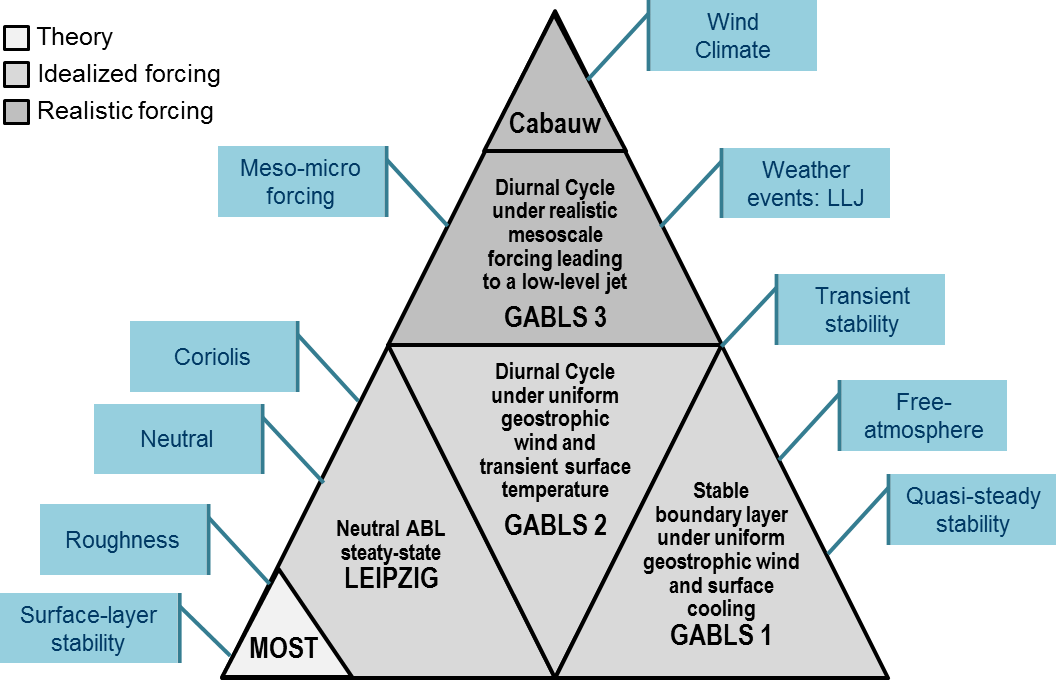
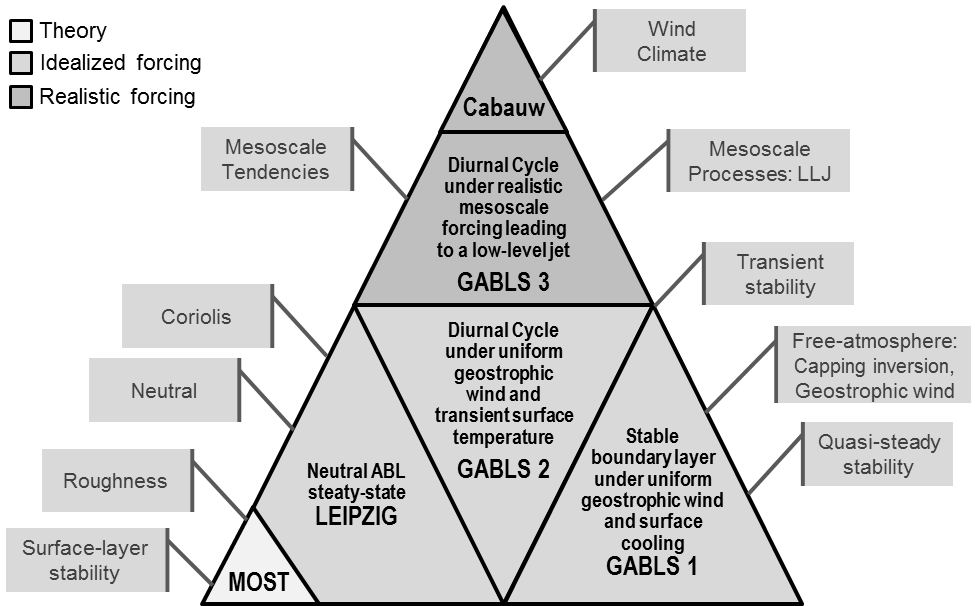
Table changed into grid format

diff --git a/windconditions/windconditions.rst b/windconditions/windconditions.rst
@@ -105,7 +105,7 @@ Sanz Rodrigo et al. (2016) :cite:`rodrigo_mesoscale_2017` provide a review of me
     :width: 600
     :align: center
 
-    Model-chain for wind farm flow modeling. © 2016 John Wiley & Sons, Ltd. Used with permission (`Sanz Rodrigo et al., 2016 <https://onlinelibrary.wiley.com/doi/pdf/10.1002/wene.214>`_) :cite:`rodrigo_mesoscale_2017`.
+    Model-chain for wind farm flow modeling. `© 2016 John Wiley & Sons, Ltd <https://onlinelibrary.wiley.com/doi/pdf/10.1002/wene.214>`_. Used with permission. :cite:`rodrigo_mesoscale_2017`
 
 Models can be coupled together to form a multi-scale modeling system where, for instance, the microscale sub-system (the wind farm) uses input data generated by the mesoscale sub-system to characterize the long-term wind climate distribution that modulates the local wind conditions. Similarly, an aerolastic model of the turbine sub-system can be used to predict detailed rotor aerodynamics responsible for wake generation in the wind farm wake model. A mind map elaborated during IEA-Task 31 Phase 3 shows the relationships between model building-blocks at different scales, input quantities and phenomena of interest for the intended use of these models (:numref:`fig-windconditions-mindmap`). 
 
@@ -138,32 +138,131 @@ This validation strategy was implemented in the New European Wind Atlas (NEWA) p
     :width: 600
     :align: center
 
-    Distributions of mean gross power bias, using the NREL 5MW reference turbine power curve, for the various stages of the NEWA model chain grouped by ruggedness index (RIX) category: low (a), medium (b), high (c), and all of the samples combined (d). © Author(s) 2020. CC BY 4.0 License. Used with permission (`Dörenkämper et al., 2020 <https://gmd.copernicus.org/preprints/gmd-2020-23/>`_).  
+    Distributions of mean gross power bias, using the NREL 5MW reference turbine power curve, for the various stages of the NEWA model chain grouped by ruggedness index (RIX) category: low (a), medium (b), high (c), and all of the samples combined (d). `© Author(s) 2020. CC BY 4.0 License <https://gmd.copernicus.org/preprints/gmd-2020-23/>`_. Used with permission. :cite:`dorenkamper_making_2020`  
 
-* **Site assessment**: here the main focus was on the microscale model, in particular, in the implementation of mesoscale forcing and boundary conditions for heterogeneous topography (complex terrain and forest canopies) using both both Reynolds-Averaged Navier Stokes (RANS) and Large-Eddy Simulation (LES) turbulence models. Hence, the validation strategy seeked validation cases from detailed experiments where these modeling feutures would be tested in the prediction of mean flow and turbulence quantities. The range of experiments carried out in the NEWA allows testing over a wide range of siting conditions from offshore to coastal transitions to smooth and complex terrain with a without forest canopies. Next section provides an overview of these experiments and other open-access datasets that can be used to validate flow models.         
+* **Site assessment**: here the main focus was on the microscale model, in particular, in the implementation of mesoscale forcing and boundary conditions for heterogeneous topography (complex terrain and forest canopies) using both Reynolds-Averaged Navier Stokes (RANS) and Large-Eddy Simulation (LES) turbulence models. Hence, the validation strategy seeked validation cases from detailed experiments where these modeling feutures would be tested in the prediction of mean flow and turbulence quantities. The range of experiments carried out in the NEWA allows testing over a wide range of siting conditions from offshore to coastal transitions to smooth and complex terrain with a without forest canopies. Next section provides an overview of these experiments and other open-access datasets that can be used to validate flow models.         
 
 Experiments and other observational datasets  
 --------------------------------------------
-In addition to tall towers for boundary-layer measurements of at least one year duration, NEWA experiments made extensive use of remote sensing and, in particular, scanning lidar systems to obtain unprecedented measurements of the flow field during intensive campaigns of several months :cite:`mann_complex_2017`. A summary of NEWA experiments and other sources of open-access validation data are provided in :numref:`tab-windconditions-datasets`. 
+The building-block validation hierarchy of :numref:`fig-windconditions-building-blocks` provides a framework to map validation datasets with phenomena of interest at different scales and show how they complement each other to cover a reasonably wide range of wind conditions. Site effects are modulated by the regional wind climate which is driven by synoptic weather and local mesoscale processes.    
 
-.. _tab-windconditions-datasets:
-.. csv-table:: Summary of open-access datasets for the validation of flow models for wind conditions (adapted from :cite:`rodrigo_new_2020`, CC BY 3.0 License)
-   :file: windconditions_datasets.csv
-   :widths: 5,5,5,5,30,5
-   :header-rows: 1
-   :class: longtable
-
-.. note::
-   Add open-access datasets from other projects when they have been used for flow model validation (provide references) and the data 
-
-:numref:`fig-NEWA-building-blocks` shows how the experiments complement existing campaigns and each other to cover a wide range of wind conditions, from homogeneous conditions onshore (e.g. Cabauw), to offshore (e.g. Fino1) and coastal (Ferry Lidar, RUNE), to forested landscapes (Ryningsnäs, Balconies, Hornamossen), to flow over hills (Askervein, Bolund, Rödeser Berg), to steep (Perdigão) and mountainous terrain (Alaiz) [6]. 
-
-.. _fig-NEWA-building-blocks:
-.. figure:: figures/NEWA-building-blocks.png
+.. _fig-windconditions-building-blocks:
+.. figure:: figures/windconditions-building-blocks.png
     :width: 600
     :align: center
 
-    NEWA validation building-blocks and phenomena of interest for wind conditions (Sanz Rodrigo et al., 2019).
+    Building-block validation hierarchy and phenomena of interest for wind conditions.
+
+While long-term statistics of wind conditions are traditionally characterized with meteorological masts, many recent experiments include an intense operational period (IOP) of several weeks to months with extensive use of remote sensing equipment. In particular, scanning lidar systems allow to characterize the spatio-temporal structure of the flow field along  scanning trajectories following a particular transect, or slicing vertical or horizontal planes (:cite:`mann_complex_2017`). A summary of NEWA experiments and other sources of open-access validation data are provided in :numref:`tab-windconditions-datasets`. 
+
+.. _tab-windconditions-datasets:
+.. table:: Summary of open-access datasets for the validation of flow models for wind conditions
+   :class: longtable
+
+   +--------------------+-------------+----------------------+-------------------------+-----------------------------------------------------------------+
+   | Dataset            | Location    | Period               | Site Conditions         | References                                                      |
+   +====================+=============+======================+=========================+=================================================================+
+   | **Homogeneous ABL**                                                                                                                                 |
+   +--------------------+-------------+----------------------+-------------------------+-----------------------------------------------------------------+
+   | *Cabauw/ GABLS3*   | Netherlands | Since 2008           | Onshore flat terrain    | :cite:`cesar_2020`, :cite:`bosveld_third_2014`,                 | 
+   |                    |             |                      |                         | :cite:`rodrigo_results_2017`,                                   |
+   |                    |             |                      |                         | :cite:`rodrigo_windbenchgabls3_2020`,                           |
+   |                    |             |                      |                         | :cite:`rodrigo_comparing_2018`,                                 |
+   |                    |             |                      |                         | :cite:`rodrigo_windbenchnewamesomicrochallengephase1_2018`      |
+   +                    +-------------+----------------------+-------------------------+-----------------------------------------------------------------+
+   |                    | 200-m tall mast for atmospheric boundary-layer research in horizontally homogeneous conditions. GABLS3 is a diurnal            |
+   |                    | cycle developing a strong nocturnal low-level jet                                                                              | 
+   +--------------------+-------------+----------------------+-------------------------+-----------------------------------------------------------------+
+   | **Coastal and Offshore**                                                                                                                            |
+   +--------------------+-------------+----------------------+-------------------------+-----------------------------------------------------------------+
+   | *Satellite SAR*    | Global      | Since 2002           | Offshore                | :cite:`hasager_europes_2020`, :cite:`dtu_satellite_2020`        |
+   +                    +-------------+----------------------+-------------------------+-----------------------------------------------------------------+
+   |                    | Satellite SAR wind data archive from 2002                                                                                      |
+   +--------------------+-------------+----------------------+-------------------------+-----------------------------------------------------------------+
+   | *NEWA-RUNE*        | Denmark     | 2015-11 to 2016-02   | Near-shore              |  :cite:`floors_rune_2016`                                       |
+   +                    +-------------+----------------------+-------------------------+-----------------------------------------------------------------+
+   |                    | Near-shore wind resource from 8 lidars, one ocean buoy and satelite data                                                       |
+   +--------------------+-------------+----------------------+-------------------------+-----------------------------------------------------------------+
+   | *NEWA-Ferry Lidar* | Baltic Sea  | 2017-02 to 2017-06   | Offshore                | :cite:`gottschall_newa_2018`, :cite:`sanz_rodrigo_report_2019`  |
+   +                    +-------------+----------------------+-------------------------+-----------------------------------------------------------------+
+   |                    | Offshore wind resource from a ferry-mounted profiling lidar along the South Baltic Sea from Kiel (Germany) to                  |
+   |                    | Klaipeda (Lithuania)                                                                                                           |
+   +--------------------+-------------+----------------------+-------------------------+-----------------------------------------------------------------+
+   | **Roughness Changes and Canopies**                                                                                                                  |
+   +--------------------+-------------+----------------------+-------------------------+-----------------------------------------------------------------+
+   | *Ryningsnäs*       | Sweden      | 2011-10 to 2012-06   | Forested simple terrain | :cite:`arnqvist_wind_2015`, :cite:`arnqvist_investigation_2019`,|
+   |                    |             |                      |                         | :cite:`avila_daily_2019`, :cite:`ivanell_micro-scale_2018`,     |
+   |                    |             |                      |                         | :cite:`sanz_rodrigo_report_2017`                                |
+   +                    +-------------+----------------------+-------------------------+-----------------------------------------------------------------+
+   |                    | 200-m tall mast in a patchy forested site in simple terrain conditions                                                         |
+   +--------------------+-------------+----------------------+-------------------------+-----------------------------------------------------------------+
+   | *NEWA-Østerild*    | Denmark     | 2016-04 to 2016-08   | Forested flat terrain   |  :cite:`karagali_new_2018`                                      |
+   | *Balconies*        |             |                      |                         |                                                                 |
+   +                    +-------------+----------------------+-------------------------+-----------------------------------------------------------------+
+   |                    | Two horizontally scanning Doppler lidars, mounted on 250-m high masts and measuring at 50 and 200 m the flow above patchy      |
+   |                    | forest                                                                                                                         |
+   +--------------------+-------------+----------------------+-------------------------+-----------------------------------------------------------------+
+   | **Isolated Hill**                                                                                                                                   |
+   +--------------------+-------------+----------------------+-------------------------+-----------------------------------------------------------------+
+   | *Askervein*        | Scotland    | 1982-1983            | Smooth hill             | :cite:`taylor_askervein_1987`,                                  |
+   |                    |             |                      |                         | :cite:`walmsley_boundary-layer_1996`,                           |
+   |                    |             |                      |                         | :cite:`mickle_askervein_1988`, :cite:`kim_test_2000`,           |
+   |                    |             |                      |                         | :cite:`castro_simulation_2003`,                                 |
+   |                    |             |                      |                         | :cite:`silva_lopes_simulation_2007`,                            |
+   |                    |             |                      |                         | :cite:`undheim_non-linear_2006`,                                |
+   |                    |             |                      |                         | :cite:`bechmann_large-eddy_2007`, :cite:`beljaars_mixed_1987`,  |
+   |                    |             |                      |                         | :cite:`raithby_askervein_1987`, :cite:`salmon_askervein_1988`,  |
+   |                    |             |                      |                         | :cite:`xu_non-linear_1992`, :cite:`bechmann_hybrid_2010`,       |
+   |                    |             |                      |                         | :cite:`chow_evaluation_2009`, :cite:`conan_experimental_2016`   |
+   |                    |             |                      |                         | :cite:`rodrigo_results_2017`,                                   |
+   |                    |             |                      |                         | :cite:`rodrigo_windbenchgabls3_2020`,                           |
+   |                    |             |                      |                         | :cite:`rodrigo_comparing_2018`,                                 |
+   |                    |             |                      |                         | :cite:`rodrigo_windbenchnewamesomicrochallengephase1_2018`      |
+   +                    +-------------+----------------------+-------------------------+-----------------------------------------------------------------+
+   |                    | 116 m high smooth hill isolated in all wind directions but the NE-E sector. Over 50 masts installed, 35 of them of 10 m        |
+   |                    | height installed along transects following the main axes of the hill                                                           |
+   +--------------------+-------------+----------------------+-------------------------+-----------------------------------------------------------------+
+   | *NEWA-Rödeser*     | Germany     | 2016-10 to 2017-01   | Forested hill           | :cite:`dorenkamper_large-eddy_2019`,                            |
+   | *Berg (Kassel)*    |             |                      |                         | :cite:`sanz_rodrigo_report_2018`,                               |
+   |                    |             |                      |                         | :cite:`sanz_rodrigo_report_2019`                                |
+   +                    +-------------+----------------------+-------------------------+-----------------------------------------------------------------+
+   |                    | 200-m tall forested hill equipped with a 200-m mast at the hill top, a 140-m mast at the inflow and scanning Doppler lidars    |
+   |                    | mapping a transect along the prevailing wind direction                                                                         |
+   +--------------------+-------------+----------------------+-------------------------+-----------------------------------------------------------------+
+   | **Undulating Terrain**                                                                                                                              |
+   +--------------------+-------------+----------------------+-------------------------+-----------------------------------------------------------------+
+   | *NEWA-Hornamossen* | Sweden      | 2015-06 to 2017-07   | Forested rolling hills  | :cite:`sanz_rodrigo_report_2019`, :cite:`mann_complex_2017`     |
+   +                    +-------------+----------------------+-------------------------+-----------------------------------------------------------------+
+   |                    | 10-km long transect consisting of 9 remote sensing profilers and one 180-m flux-profile mast in forested and moderately        |
+   |                    | complex terrain. Surface pressure gradient measurements                                                                        |
+   +--------------------+-------------+----------------------+-------------------------+-----------------------------------------------------------------+
+   | **Steep Ridges**                                                                                                                                    |
+   +--------------------+-------------+----------------------+-------------------------+-----------------------------------------------------------------+
+   | *Bolund*           | Denmark     | 2007-2008            | Small isolated ridge    | :cite:`bechmann_bolund_2009`, :cite:`berg_bolund_2011`,         |
+   |                    |             |                      |                         | :cite:`bechmann_bolund_2011`,                                   |
+   |                    |             |                      |                         | :cite:`prospathopoulos_application_2012`,                       |
+   |                    |             |                      |                         | :cite:`diebold_flow_2013`, :cite:`yeow_reproducing_2015`        |
+   +                    +-------------+----------------------+-------------------------+-----------------------------------------------------------------+
+   |                    | 12-m high hill surrounded by water in all directions except to the E. An almost vertical escarpment faces the prevailing W-SW  |
+   |                    | sector. 10 masts equiped with sonic and cap anemometers.                                                                       |
+   +--------------------+-------------+----------------------+-------------------------+-----------------------------------------------------------------+
+   | *NEWA-Perdigão*    | Portugal    | 2016-12 to 2017-06   | Double ridge            | :cite:`fernando_perdigao_2019`, :cite:`ncar_perdigao_2020`,     |
+   |                    |             |                      |                         | :cite:`feup_perdigao_2020`                                      |
+   +                    +-------------+----------------------+-------------------------+-----------------------------------------------------------------+
+   |                    | 50 masts, 20 scanning lidars, 7 profiling lidars and other meteorological equipment distributed along and across two parallel  |
+   |                    | steep ridges.                                                                                                                  |
+   +--------------------+-------------+----------------------+-------------------------+-----------------------------------------------------------------+
+   | **Mountaineous complex terrain**                                                                                                                    |
+   +--------------------+-------------+----------------------+-------------------------+-----------------------------------------------------------------+
+   | *NEWA-Alaiz*       | Spain       | 2017-07 to 2019-07   | Ridge-valley-mountain   | :cite:`cantero_alaiz_2019`, :cite:`santos_alaiz_2019`,          |
+   | *(ALEX17)*         |             |                      |                         | :cite:`santos_alaiz_2020`                                       |
+   +                    +-------------+----------------------+-------------------------+-----------------------------------------------------------------+
+   |                    | 5 scanning Doppler lidars measuring a Z-shaped 10-km long transect along the ridge tops and the across the valley together     |
+   |                    | with a windRASS profiler, 7 tall masts and 10 surface stations                                                                 |
+   +--------------------+-------------+----------------------+-------------------------+-----------------------------------------------------------------+
+
+.. note::
+   Other open-access datasets can be added when they have been used for flow model validation (provide references) 
 
 Phenomena of Interest 
 ---------------------
@@ -177,7 +276,7 @@ Phenomena of Interest
     :width: 600
     :align: center
 
-    Phenomena of interest in the Perdigão experiment. © American Meteorological Society. Used with permission (`Fernando et al., 2019 <https://journals.ametsoc.org/doi/full/10.1175/BAMS-D-17-0227.1>`_)
+    Phenomena of interest in the Perdigão experiment. `© American Meteorological Society <https://journals.ametsoc.org/doi/full/10.1175/BAMS-D-17-0227.1>`_. Used with permission. :cite:`fernando_perdigao_2019`
 
 Benchmarks
 ----------
